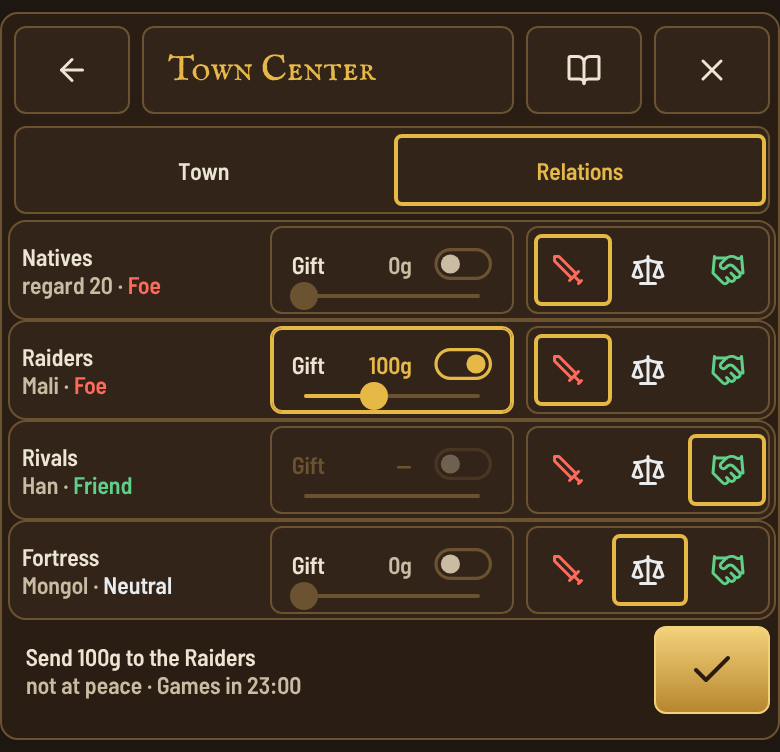
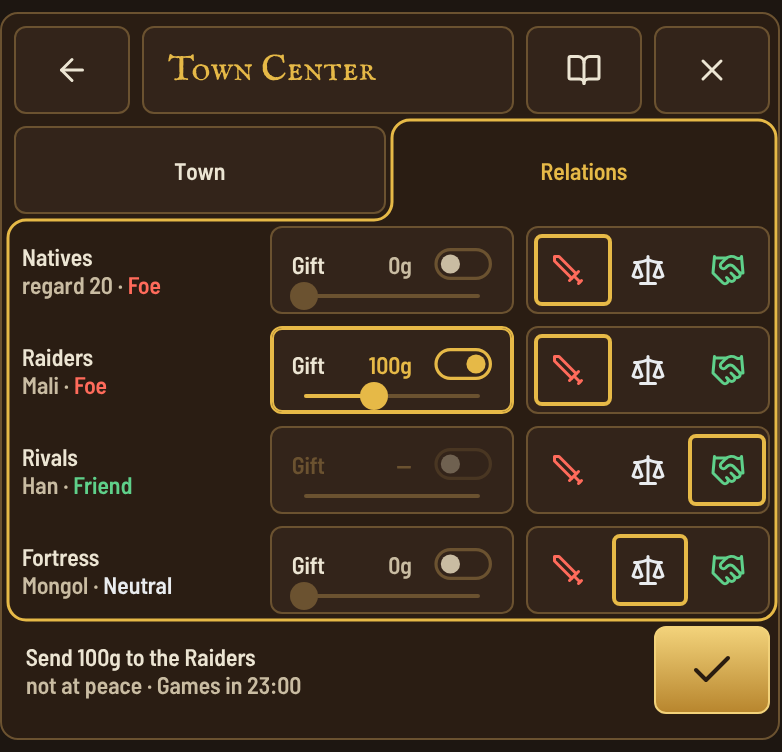
v80: Relations final, with the folder outline (Albert)
Claude-Session: https://claude.ai/code/session_017QywRJWT3TbVEtSBgaAjwc

diff --git a/docs/Build List - v80 - Post Clean - Working.md b/docs/Build List - v80 - Post Clean - Working.md
@@ -17,6 +17,8 @@
 - One border (Albert, 09:41, kept): any control may sit in one outline (corners 9, down the middle of the gap) with nothing inside but its content; a chosen part keeps its ring; the big one is 3 x 4. Picture: One Border per Control.
 - The control sheet (Albert, 09:41): every kept control in seven groups: 1 check boxes, 2 toggles, 3 sliders, 4 toggles + sliders, 5 selectors, 6 pairs (the job grammar), 7 one border. Pictures: Control Sheet 1 and 2.
 
+- Relations, final (Albert, 10:16–10:18, "we are locking into the final"): Town | Relations tabs with the folder outline round the open tab's section; one rank a player in three doubles: the name with its stance in its colour on the quiet line, the gift as a slider with its toggle (a friend's gift locked: a bribe is a step for anyone not a friend, which changes v70's Natives only), the stance as three icons in two slots (sword red, scales white, handshake green; colour named as an exception to Cream 1 icons); the bottom line says what ✓ will do; the slider snaps (50g). Picture: Relations Final.
+
 ## Needs Albert's call now (it touches v70)
 1. Mail has no door once the Realm page goes: the Realm page's Mail tile was its only way in. Where does Mail open from?
 2. The status strip: Gunpowder does not fit the age cell. The ballot's change (the People icon back, age and people three cells each) was refused by the tap-size check: the other cells fell to 40 pt at 375.
